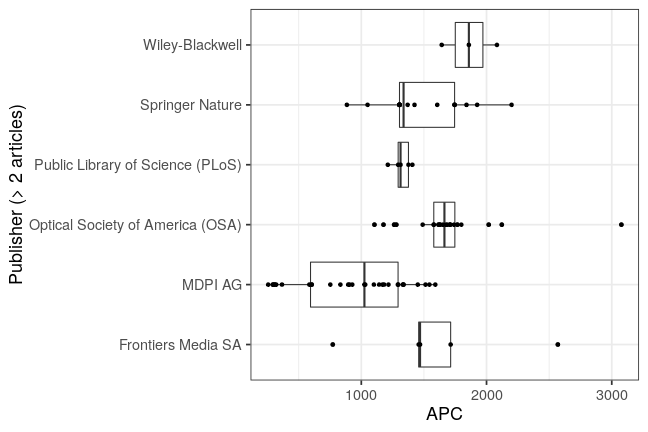
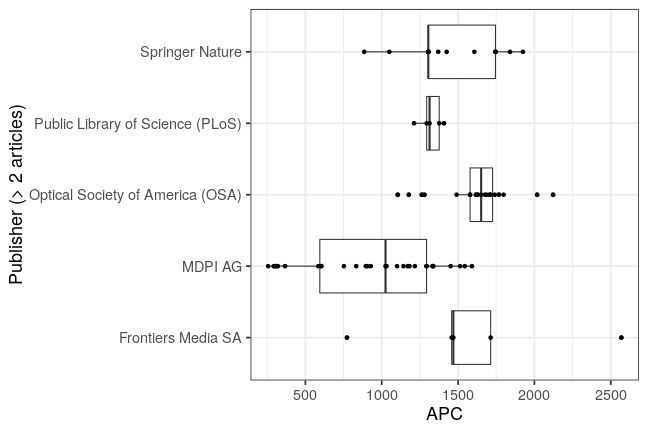
update: fraunhofer apc data 2018

diff --git a/_posts/2019-05-15-fraunhofer.md b/_posts/2019-05-15-fraunhofer.md
@@ -22,21 +22,20 @@ Contact Person is [Stefanie Seeh](mailto:stefanie.seeh@zv.fraunhofer.de).
 
 
 
-The new dataset covers publication fees for 56 articles. Total expenditure amounts to 74 260€ and the average fee is 1 326€.
+The new dataset covers publication fees for 52 articles. Total expenditure amounts to 66 191€ and the average fee is 1 273€.
 
 
 |                                 | Articles| Fees paid in EURO| Mean Fee paid|
 |:--------------------------------|--------:|-----------------:|-------------:|
 |MDPI AG                          |       23|             20311|           883|
-|Optical Society of America (OSA) |       13|             22228|          1710|
-|Springer Nature                  |        6|              9430|          1572|
+|Optical Society of America (OSA) |       12|             19151|          1596|
 |Frontiers Media SA               |        5|              7983|          1597|
+|Springer Nature                  |        5|              7230|          1446|
 |Public Library of Science (PLoS) |        3|              3820|          1273|
-|Wiley-Blackwell                  |        2|              3942|          1971|
 |AIP Publishing                   |        1|              1890|          1890|
 |Elsevier BV                      |        1|              3093|          3093|
 |MedCrave Group, LLC              |        1|               854|           854|
-|The Electrochemical Society      |        1|               709|           709|
+|Wiley-Blackwell                  |        1|              1859|          1859|
 
 ## Overview
 
